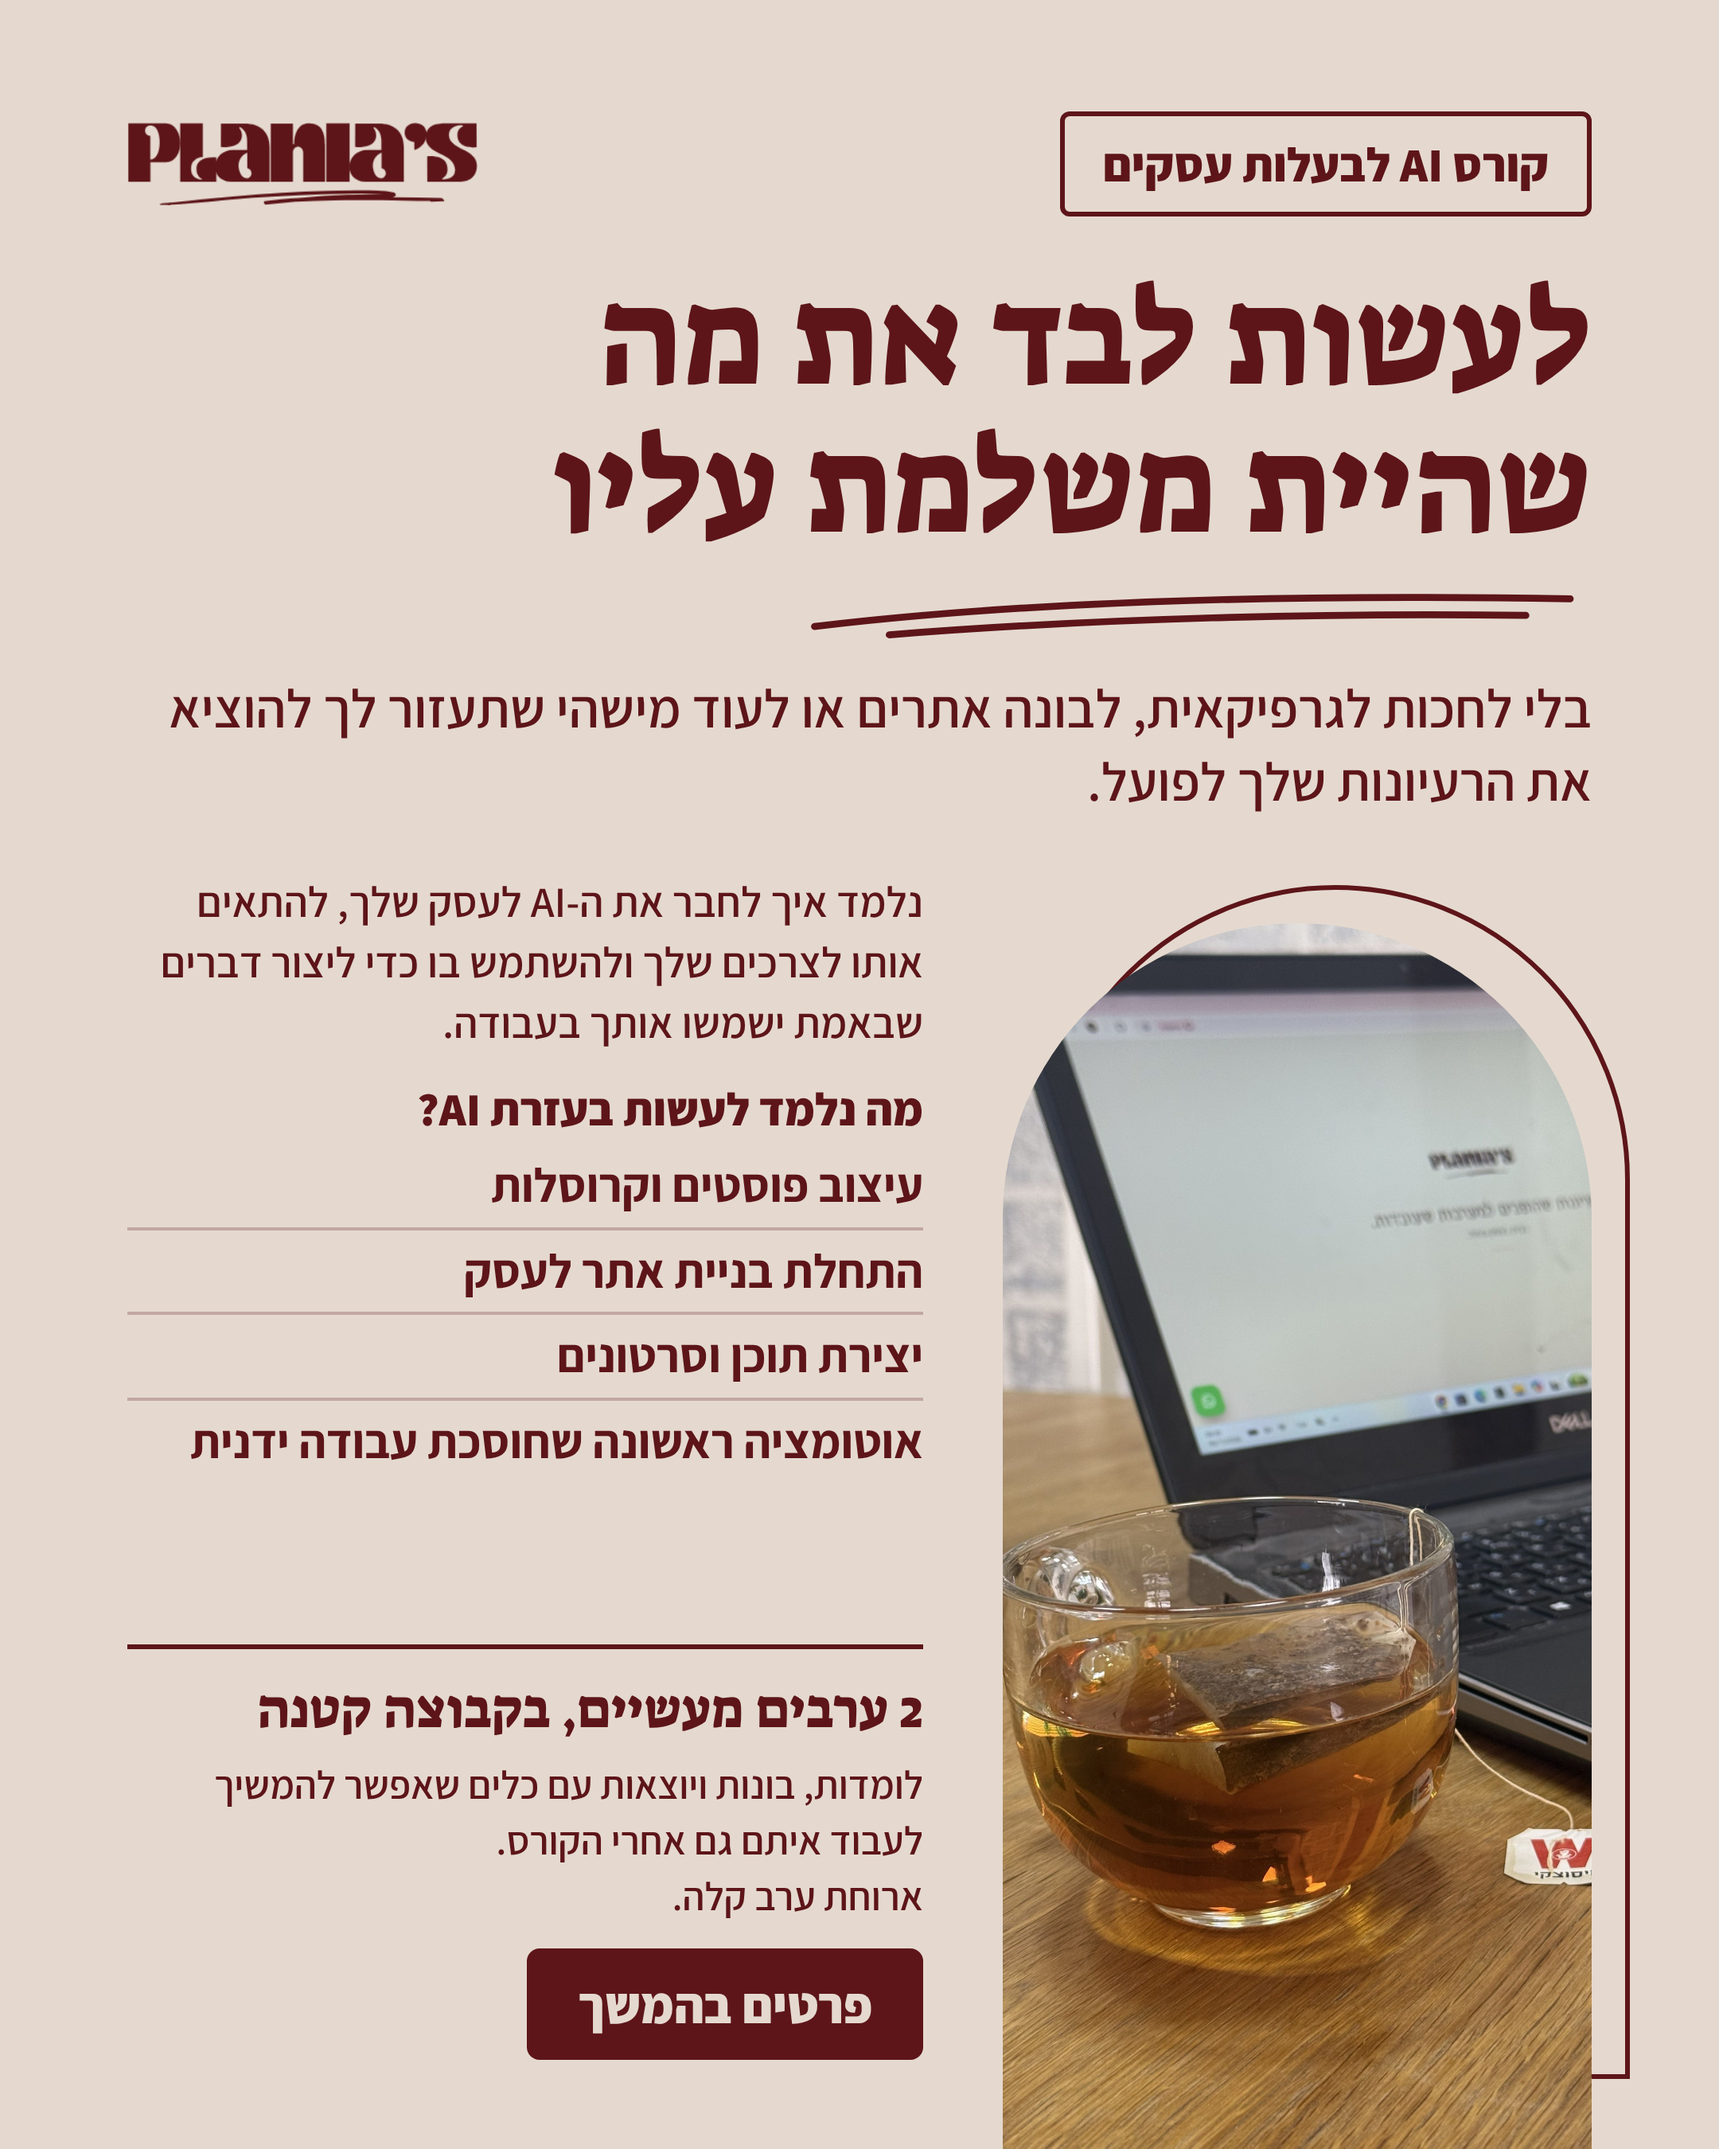
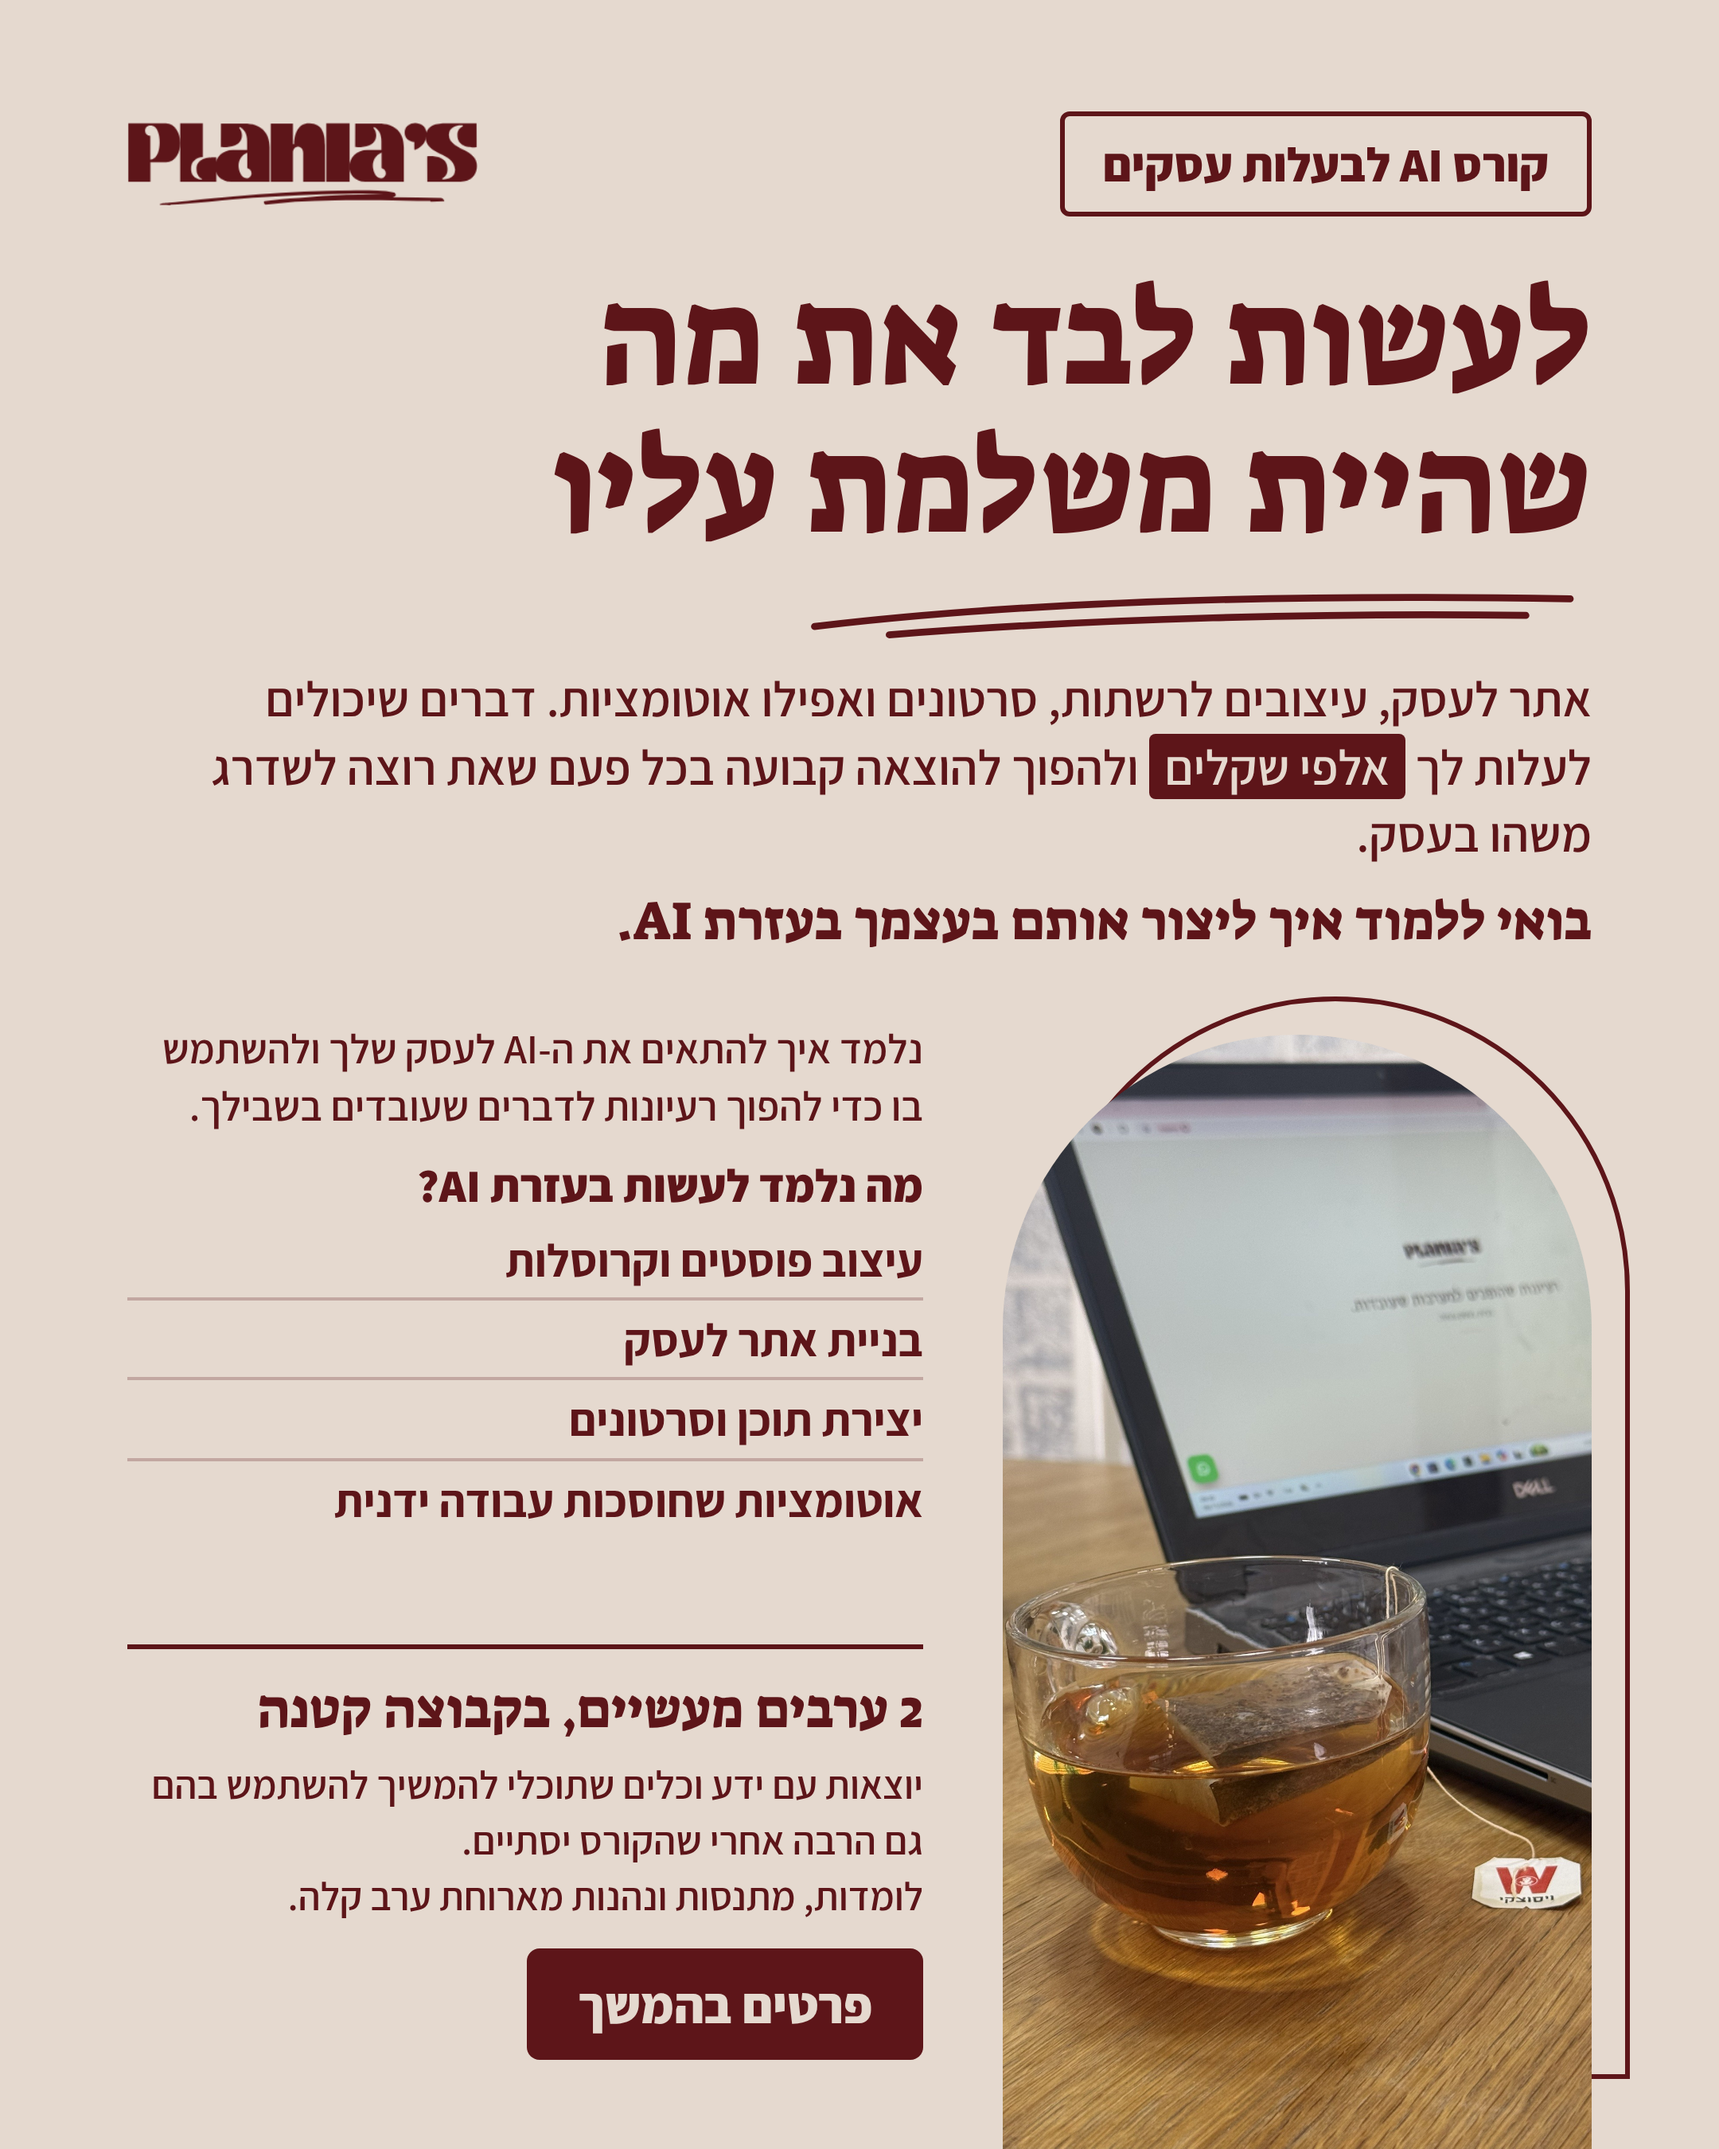
Flyer: stress cost savings and independence in the copy
Claude-Session: https://claude.ai/code/session_01FAztRn3s498VxUBgDg5pS8

Changed region(s): [[0.0931, 0.3111, 0.9616, 1.0], [0.0931, 0.8089, 0.5273, 0.9022]]

diff --git a/marketing/course-ad/flyer-photo.html b/marketing/course-ad/flyer-photo.html
@@ -27,6 +27,15 @@ li:last-child{border:none}
 .fh{font-family:'Suez One',serif;font-size:34px;line-height:1.2}
 .ft{font-size:25px;font-weight:600;line-height:1.4;margin-top:8px}
 .soon{display:inline-block;margin-top:16px;background:var(--wine);color:var(--cream);font-weight:800;font-size:32px;padding:14px 32px;border-radius:8px}
+.intro{font-size:31px !important;line-height:1.38 !important;margin-top:14px !important}
+mark{background:var(--wine);color:var(--cream);padding:0 10px;border-radius:4px}
+.cta-line{font-family:'Suez One',serif;font-size:34px;margin-top:10px}
+.side{top:640px !important}
+.arch-line{top:626px !important;height:680px !important}
+.arch{top:650px !important;height:700px !important}
+.lead{font-size:26px !important}
+li{font-size:29px !important;padding:6px 0 !important}
+.k{margin-top:12px !important}
 </style>
 </head>
 <body>
@@ -37,21 +46,22 @@ li:last-child{border:none}
     <div class="row"><span class="tag">קורס AI לבעלות עסקים</span><img class="logo" src="logo.png" alt="Plania's"></div>
     <h1>לעשות לבד את מה<br>שהיית משלמת עליו</h1>
     <svg class="swoosh" viewBox="0 0 560 46"><path d="M6 34 C140 18 320 10 552 14 M60 40 C210 28 380 24 520 26" fill="none" stroke="currentColor" stroke-width="5" stroke-linecap="round"/></svg>
-    <p class="intro">בלי לחכות לגרפיקאית, לבונה אתרים או לעוד מישהי שתעזור לך להוציא את הרעיונות שלך לפועל.</p>
+    <p class="intro">אתר לעסק, עיצובים לרשתות, סרטונים ואפילו אוטומציות. דברים שיכולים לעלות לך <mark>אלפי שקלים</mark> ולהפוך להוצאה קבועה בכל פעם שאת רוצה לשדרג משהו בעסק.</p>
+    <p class="cta-line">בואי ללמוד איך ליצור אותם בעצמך בעזרת AI.</p>
   </div>
   <div class="side">
-    <p class="lead">נלמד איך לחבר את ה-AI לעסק שלך, להתאים אותו לצרכים שלך ולהשתמש בו כדי ליצור דברים שבאמת ישמשו אותך בעבודה.</p>
+    <p class="lead">נלמד איך להתאים את ה-AI לעסק שלך ולהשתמש בו כדי להפוך רעיונות לדברים שעובדים בשבילך.</p>
     <span class="k">מה נלמד לעשות בעזרת AI?</span>
     <ul>
       <li>עיצוב פוסטים וקרוסלות</li>
-      <li>התחלת בניית אתר לעסק</li>
+      <li>בניית אתר לעסק</li>
       <li>יצירת תוכן וסרטונים</li>
-      <li>אוטומציה ראשונה שחוסכת עבודה ידנית</li>
+      <li>אוטומציות שחוסכות עבודה ידנית</li>
     </ul>
   </div>
   <div class="foot">
     <div class="fh">2 ערבים מעשיים, בקבוצה קטנה</div>
-    <p class="ft">לומדות, בונות ויוצאות עם כלים שאפשר להמשיך לעבוד איתם גם אחרי הקורס.<br>ארוחת ערב קלה.</p>
+    <p class="ft">יוצאות עם ידע וכלים שתוכלי להמשיך להשתמש בהם גם הרבה אחרי שהקורס יסתיים.<br>לומדות, מתנסות ונהנות מארוחת ערב קלה.</p>
     <span class="soon">פרטים בהמשך</span>
   </div>
 </section>
